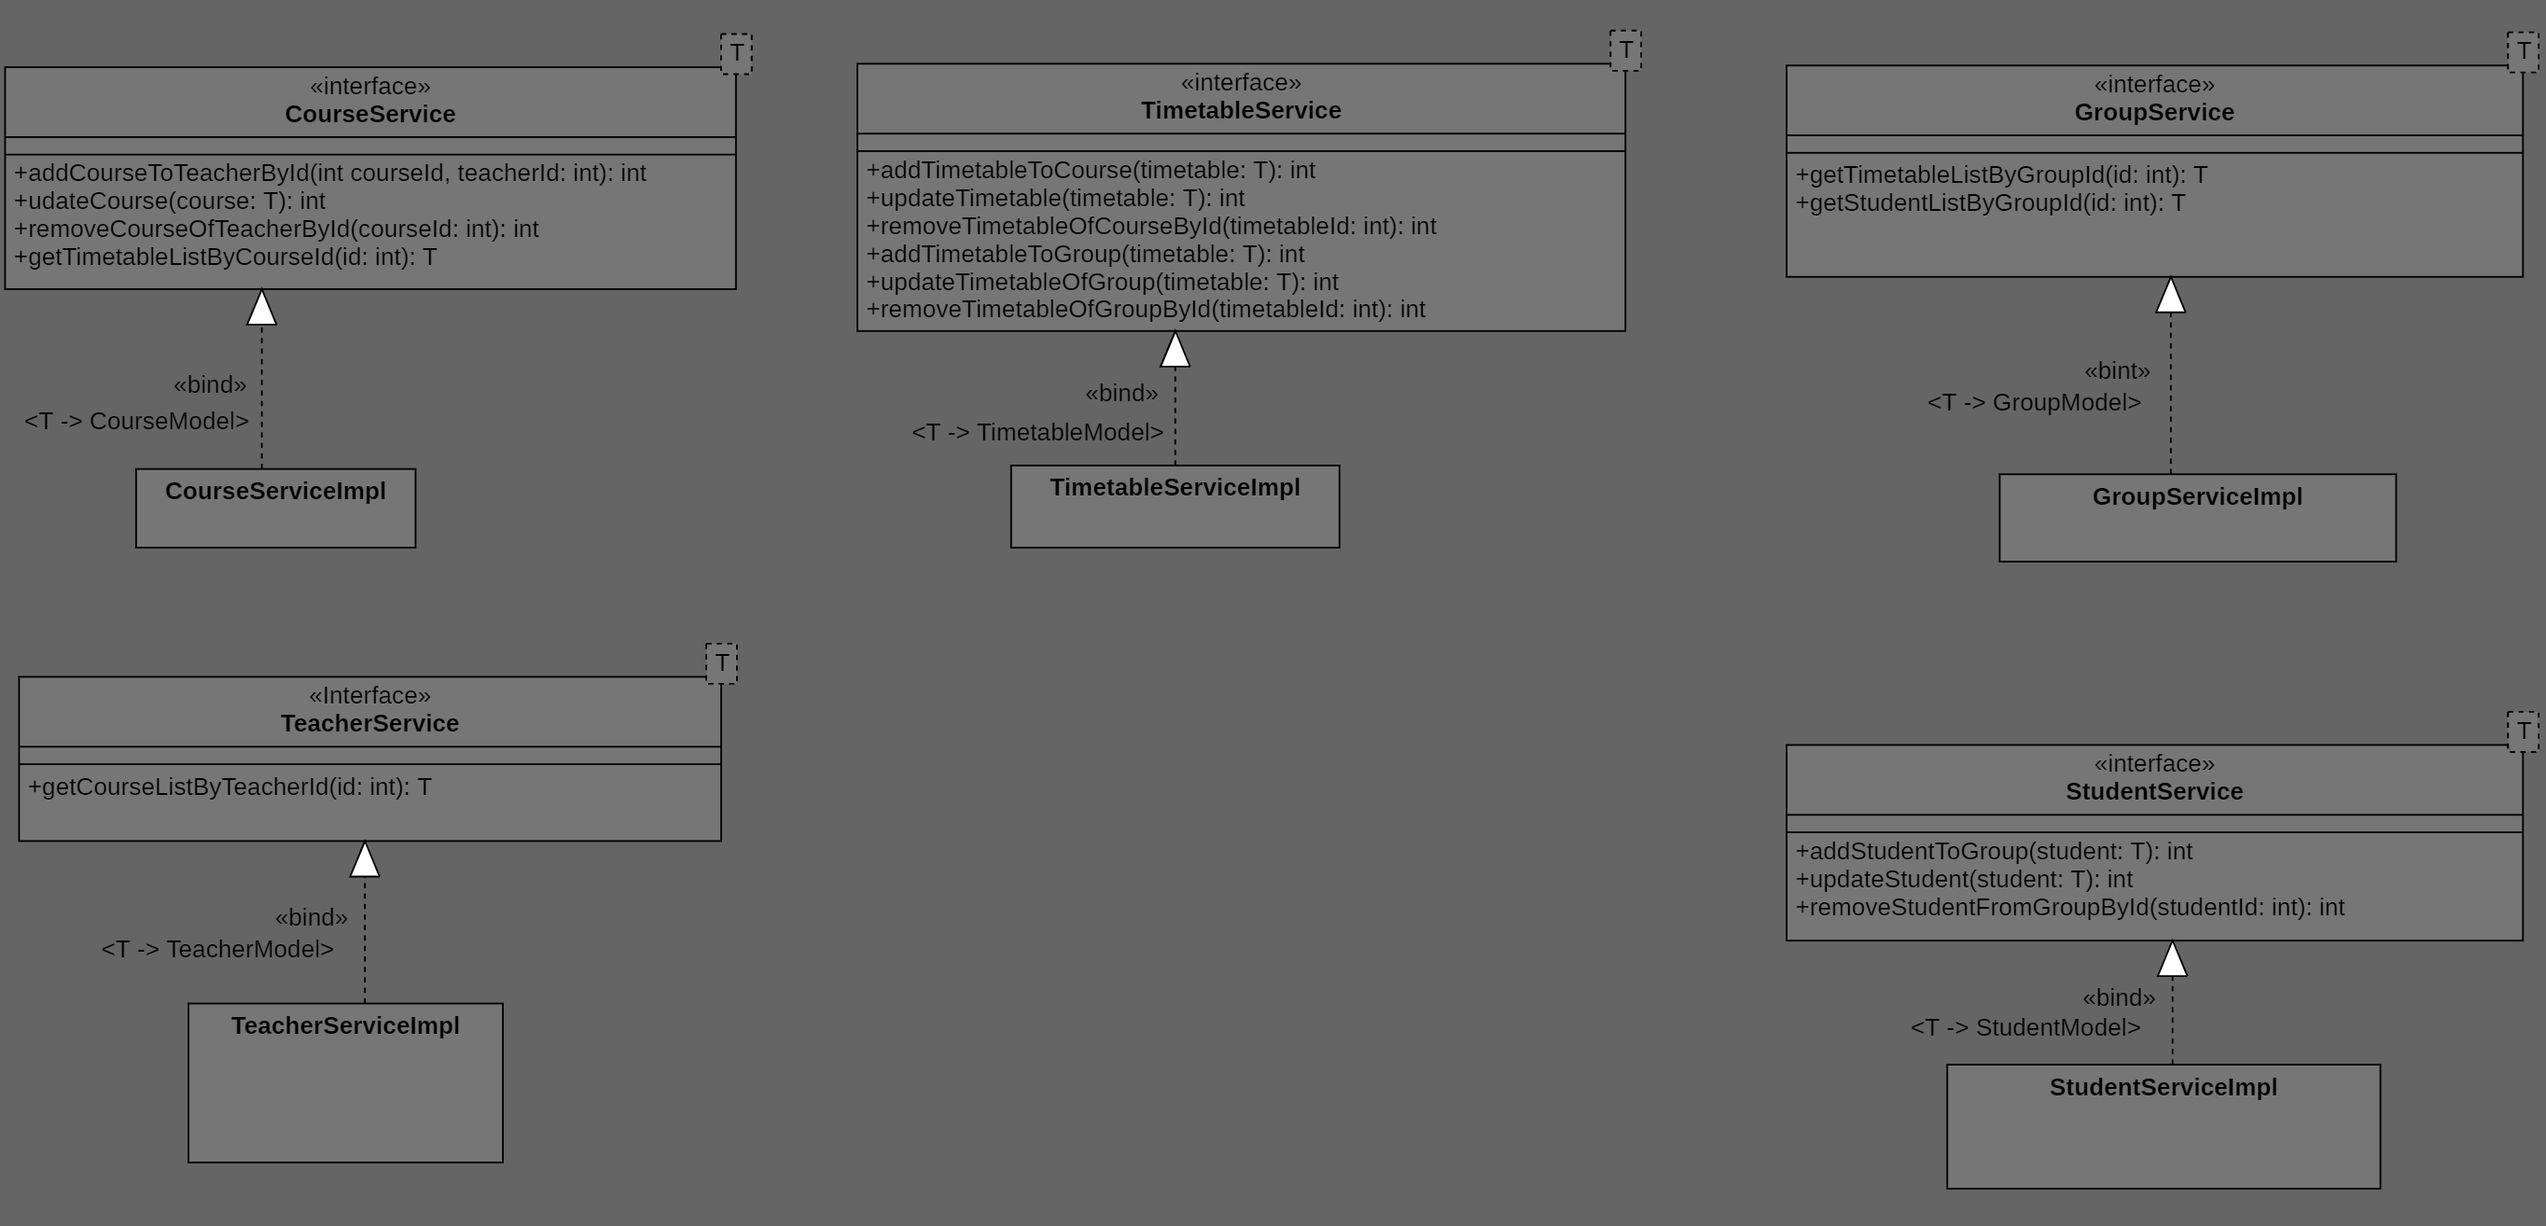
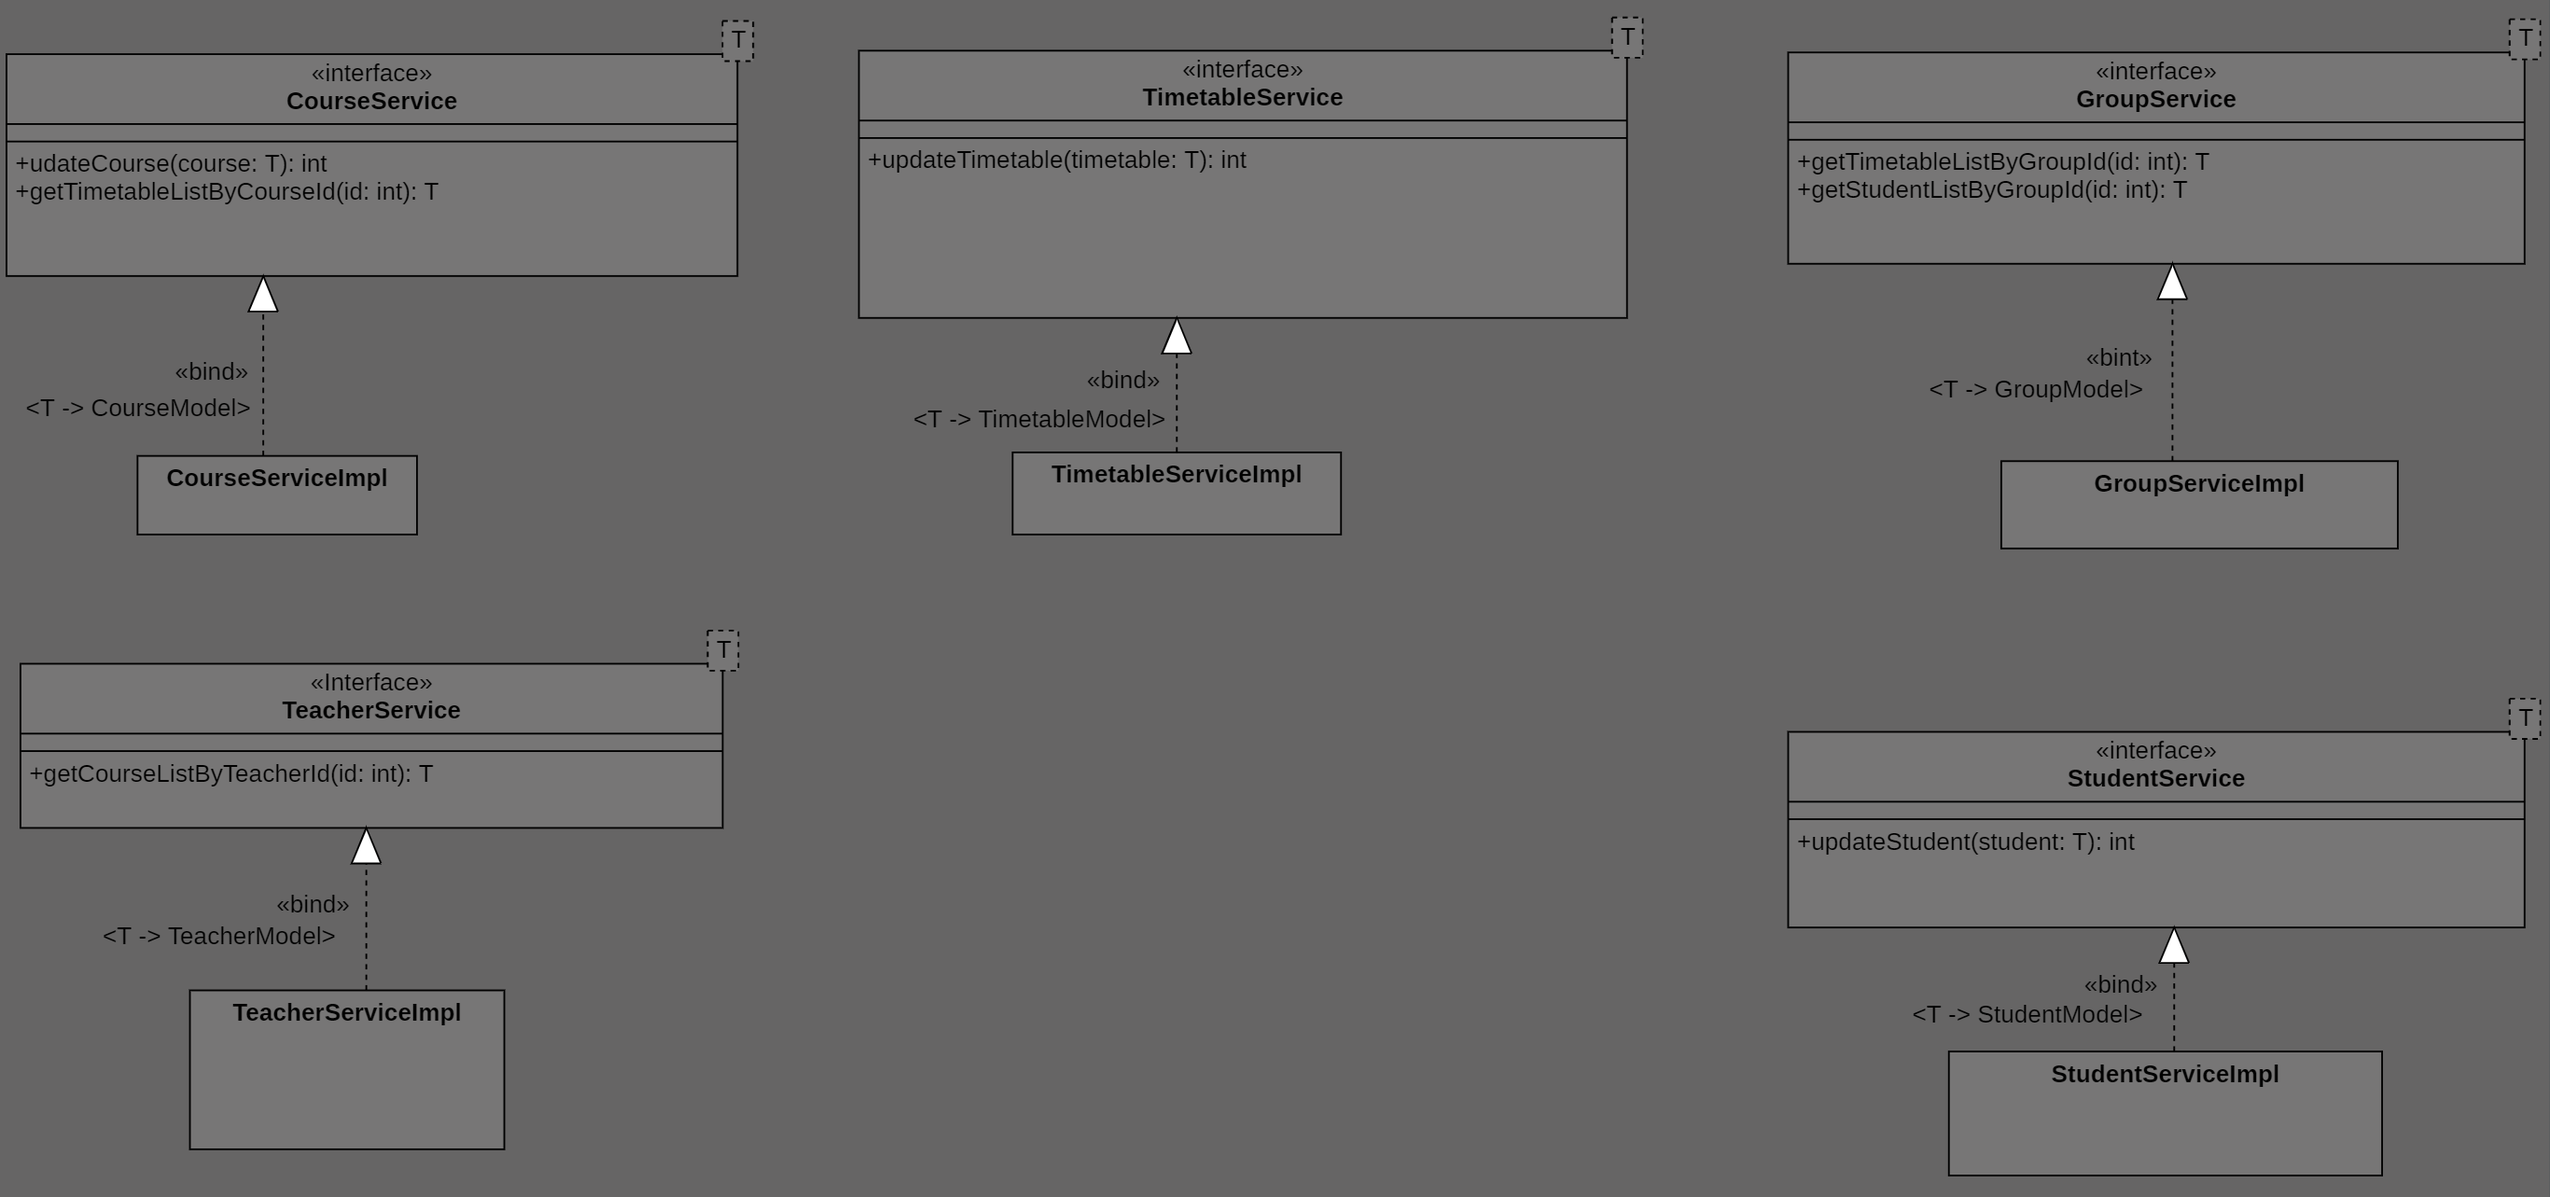
- The CourseServiceImpl class has been developed. - The CourseServiceImplTest class has been developed. - The TeacherServiceImpl class has been develped.

diff --git a/src/main/java/ua/com/foxminded/university/service/impl/CourseServiceImpl.java b/src/main/java/ua/com/foxminded/university/service/impl/CourseServiceImpl.java
@@ -1,23 +1,25 @@
 package ua.com.foxminded.university.service.impl;
 
+import java.util.List;
+import java.util.stream.Collectors;
+
 import org.springframework.beans.factory.annotation.Autowired;
 import org.springframework.stereotype.Service;
 
 import ua.com.foxminded.university.dao.CourseDao;
-import ua.com.foxminded.university.dao.TeacherDao;
 import ua.com.foxminded.university.entity.CourseEntity;
 import ua.com.foxminded.university.entity.TeacherEntity;
 import ua.com.foxminded.university.model.CourseModel;
+import ua.com.foxminded.university.model.GroupModel;
 import ua.com.foxminded.university.model.TeacherModel;
+import ua.com.foxminded.university.model.TimetableModel;
+import ua.com.foxminded.university.model.WeekDayModel;
 import ua.com.foxminded.university.service.CourseService;
 
 @Service
 public class CourseServiceImpl implements CourseService<CourseModel> {
     
-    private static final int BAD_STATUS = 0;
-    
     private CourseDao courseDao;
-    private TeacherDao teacherDao;
     
     @Autowired
     public CourseServiceImpl(CourseDao courseDao) {
@@ -25,58 +27,39 @@ public class CourseServiceImpl implements CourseService<CourseModel> {
     }
     
     @Override
-    public int addCourseToTeacherById(int courseId, int teacherId) {
-        TeacherEntity teacher = teacherDao.getById(teacherId);
-        CourseEntity course = courseDao.getById(teacherId);
-        
-        if (teacher == null || course == null) {
-            return BAD_STATUS;
-        } else {
-            if (course.getTeacher().getId() == courseId) {
-                return BAD_STATUS;
-            } else {
-                course.setTeacher(teacher);
-                return courseDao.update(course);
-            }
-        }
-    }
-    
-    @Override
     public int updateCourse(CourseModel courseModel) {
-        CourseEntity courseEntity = courseDao.getById(courseModel.getId());
-        
-        if (courseEntity == null) {
-            return BAD_STATUS;
-        } else {
-            courseEntity.setDescription(courseModel.getDescription());
-            courseEntity.setId(courseModel.getId());
-            courseEntity.setName(courseModel.getName());
-            courseEntity.setTeacher(new TeacherEntity(courseModel.getId()));
-            return courseDao.update(courseEntity);
-        }
+        CourseEntity courseEntity = new CourseEntity();
+        courseEntity.setDescription(courseModel.getDescription());
+        courseEntity.setId(courseModel.getId());
+        courseEntity.setName(courseModel.getName());
+        courseEntity.setTeacher(new TeacherEntity(courseModel.getTeacher().getId()));
+        return courseDao.update(courseEntity);
     }
    
     @Override
-    public int removeCourseOfTeacherById(int courseId, int teacherId) {
-        CourseEntity courseEntity = courseDao.getById(courseId);
-        
-        if (courseEntity == null) {
-            return BAD_STATUS;
-        } else {
-            courseEntity.setTeacher(new TeacherEntity());
-            return courseDao.update(courseEntity);
-        }
-    }
-    
-    
-    @Override
     public CourseModel getTimetableListByCourseId(int id) {
-        CourseEntity courseEntity = courseDao.getTimetableListByCourseId(id);
-        CourseModel courseModel = new CourseModel();
-        courseModel.setDescription(courseEntity.getDescription());
-        courseModel.setId(courseEntity.getId());
-        courseModel.setName(courseEntity.getName());
-        courseModel.setTeacher(new TeacherModel(courseEntity.getTeacher().getId()));
-        return courseModel;
+        CourseEntity courseEntityTimetableList = courseDao.getTimetableListByCourseId(id);
+        CourseModel courseModelTimetableList = new CourseModel();
+        
+        List<TimetableModel> timetableList = courseEntityTimetableList.getTimetableList().stream()
+                .map(entity -> {
+                    TimetableModel model = new TimetableModel();
+                    model.setCourse(new CourseModel(entity.getCourse().getId()));
+                    model.setDescription(entity.getDescription());
+                    model.setEndTime(entity.getEndTime());
+                    model.setGroup(new GroupModel(entity.getGroup().getId()));
+                    model.setId(entity.getId());
+                    model.setStartTime(entity.getStartTime());
+                    model.setWeekDay(WeekDayModel.valueOf(entity.getWeekDay().toString()));
+                    return model;
+                }).collect(Collectors.toList());
+        
+        courseModelTimetableList.setTimetableList(timetableList);
+        courseModelTimetableList.setDescription(courseEntityTimetableList.getDescription());
+        courseModelTimetableList.setId(courseEntityTimetableList.getId());
+        courseModelTimetableList.setName(courseEntityTimetableList.getName());
+        courseModelTimetableList.setTeacher(new TeacherModel(courseEntityTimetableList.getTeacher()
+                                                                                      .getId()));
+        return courseModelTimetableList;
     }
 }

diff --git a/src/test/java/ua/com/foxminded/university/service/impl/CourseServiceImplTest.java b/src/test/java/ua/com/foxminded/university/service/impl/CourseServiceImplTest.java
@@ -1,0 +1,92 @@
+package ua.com.foxminded.university.service.impl;
+
+import static org.junit.jupiter.api.Assertions.*;
+import static org.mockito.Mockito.times;
+import static org.mockito.Mockito.verify;
+import static org.mockito.Mockito.when;
+
+import java.util.ArrayList;
+import java.util.List;
+
+import org.junit.jupiter.api.Test;
+import org.junit.jupiter.api.extension.ExtendWith;
+import org.mockito.ArgumentMatchers;
+import org.mockito.InjectMocks;
+import org.mockito.Mock;
+import org.mockito.junit.jupiter.MockitoExtension;
+
+import ua.com.foxminded.university.dao.CourseDao;
+import ua.com.foxminded.university.entity.CourseEntity;
+import ua.com.foxminded.university.entity.GroupEntity;
+import ua.com.foxminded.university.entity.TeacherEntity;
+import ua.com.foxminded.university.entity.TimetableEntity;
+import ua.com.foxminded.university.entity.WeekDayEntity;
+import ua.com.foxminded.university.model.CourseModel;
+import ua.com.foxminded.university.model.TeacherModel;
+import ua.com.foxminded.university.model.WeekDayModel;
+
+
+@ExtendWith(MockitoExtension.class)
+class CourseServiceImplTest {
+    
+    private static final long START_TIME = 645689;
+    private static final long END_TIME = 46548;
+    private static final int FIRST_ELEMENT = 0;
+    private static final int TIMETABLE_ID = 2;
+    private static final int GROUP_ID = 2;
+    private static final int TEACHER_ID = 1;
+    private static final int COURSE_ID = 1;
+    private static final String COURSE_NAME = "Thermodynamics";
+    private static final String DESCRIPTION = "some description";
+    
+    @InjectMocks
+    private CourseServiceImpl courseService;
+    
+    @Mock
+    private CourseDao courseDaoMock;
+    
+    @Test
+    void updateCourse_CollingDaoObject_CorrectCallQuantity() {
+        CourseModel courseModel = new CourseModel();
+        courseModel.setTeacher(new TeacherModel());
+        courseService.updateCourse(courseModel);
+        verify(courseDaoMock, times(1)).update(ArgumentMatchers.<CourseEntity>any());
+    }
+    
+    @Test
+    void getTimetableListByCourseId_GettingTimetableModel_CorrectData () {
+        CourseEntity courseEntity = new CourseEntity();
+        List<TimetableEntity> courseList = new ArrayList<>();
+        TimetableEntity timetableEntity = new TimetableEntity();
+        timetableEntity.setCourse(new CourseEntity(COURSE_ID));
+        timetableEntity.setDescription(DESCRIPTION);
+        timetableEntity.setEndTime(END_TIME);
+        timetableEntity.setGroup(new GroupEntity(GROUP_ID));
+        timetableEntity.setId(TIMETABLE_ID);
+        timetableEntity.setStartTime(START_TIME);
+        timetableEntity.setWeekDay(WeekDayEntity.WEDNESDAY);
+        
+        courseList.add(timetableEntity);
+        
+        courseEntity.setTimetableList(courseList);
+        courseEntity.setDescription(DESCRIPTION);
+        courseEntity.setId(COURSE_ID);
+        courseEntity.setName(COURSE_NAME);
+        courseEntity.setTeacher(new TeacherEntity(TEACHER_ID));
+        
+        when(courseDaoMock.getTimetableListByCourseId(ArgumentMatchers.anyInt())).thenReturn(courseEntity);
+        CourseModel courseModel = courseService.getTimetableListByCourseId(COURSE_ID);
+        assertEquals(DESCRIPTION, courseModel.getDescription());
+        assertEquals(COURSE_ID, courseModel.getId());
+        assertEquals(COURSE_NAME, courseModel.getName());
+        assertEquals(TEACHER_ID, courseModel.getTeacher().getId());
+   
+        assertEquals(COURSE_ID, courseModel.getTimetableList().get(FIRST_ELEMENT).getCourse().getId());
+        assertEquals(DESCRIPTION, courseModel.getTimetableList().get(FIRST_ELEMENT).getDescription());
+        assertEquals(END_TIME, courseModel.getTimetableList().get(FIRST_ELEMENT).getEndTime());
+        assertEquals(GROUP_ID, courseModel.getTimetableList().get(FIRST_ELEMENT).getGroup().getId());
+        assertEquals(TIMETABLE_ID, courseModel.getTimetableList().get(FIRST_ELEMENT).getId());
+        assertEquals(START_TIME, courseModel.getTimetableList().get(FIRST_ELEMENT).getStartTime());
+        assertEquals(WeekDayModel.WEDNESDAY, courseModel.getTimetableList().get(FIRST_ELEMENT).getWeekDay());
+    }
+}

diff --git a/src/main/java/ua/com/foxminded/university/service/impl/TeacherServiceImpl.java b/src/main/java/ua/com/foxminded/university/service/impl/TeacherServiceImpl.java
@@ -1,0 +1,46 @@
+package ua.com.foxminded.university.service.impl;
+
+import java.util.List;
+import java.util.stream.Collectors;
+
+import org.springframework.beans.factory.annotation.Autowired;
+import org.springframework.stereotype.Service;
+
+import ua.com.foxminded.university.dao.TeacherDao;
+import ua.com.foxminded.university.entity.TeacherEntity;
+import ua.com.foxminded.university.model.CourseModel;
+import ua.com.foxminded.university.model.TeacherModel;
+import ua.com.foxminded.university.service.TeacherService;
+
+@Service
+public class TeacherServiceImpl implements TeacherService<TeacherModel> {
+    
+    private TeacherDao teacherDao; 
+    
+    @Autowired
+    public TeacherServiceImpl(TeacherDao teacherDao) {
+        this.teacherDao = teacherDao;
+    }
+    
+    public TeacherModel getCourseListByTeacherId(int id) {
+        TeacherEntity teacherEntityCourseList = teacherDao.getCourseListByTeacherId(id);
+        TeacherModel teacherModelCourseList = new TeacherModel();
+        
+        List<CourseModel> courseEntityList = teacherEntityCourseList.getCourseList().stream()
+                .map(entity -> {
+                    CourseModel model = new CourseModel();
+                    model.setDescription(entity.getDescription());
+                    model.setId(entity.getId());
+                    model.setName(entity.getName());
+                    model.setTeacher(new TeacherModel(entity.getTeacher().getId()));
+                    return model;
+                })
+                .collect(Collectors.toList());
+        
+        teacherModelCourseList.setCourseList(courseEntityList);
+        teacherModelCourseList.setFirstName(teacherEntityCourseList.getFirstName());
+        teacherModelCourseList.setId(teacherEntityCourseList.getId());
+        teacherModelCourseList.setLastName(teacherEntityCourseList.getLastName());
+        return teacherModelCourseList;
+    }
+}

diff --git a/src/main/java/ua/com/foxminded/university/model/TimetableModel.java b/src/main/java/ua/com/foxminded/university/model/TimetableModel.java
@@ -12,14 +12,21 @@ public class TimetableModel {
     private String description;
     private WeekDayModel weekDay;
     
-    public int getId() {
-        return id;
+    public TimetableModel() {
     }
 
     public TimetableModel(Integer id) {
         this.id = id;
     }
-    
+
+    public Integer getId() {
+        return id;
+    }
+
+    public void setId(Integer id) {
+        this.id = id;
+    }
+
     public GroupModel getGroup() {
         return group;
     }
@@ -68,10 +75,6 @@ public class TimetableModel {
         this.weekDay = weekDay;
     }
 
-    public void setId(Integer id) {
-        this.id = id;
-    }
-
     @Override
     public int hashCode() {
         return Objects.hash(course, description, endTime, group, id, startTime, weekDay);
@@ -87,13 +90,13 @@ public class TimetableModel {
             return false;
         TimetableModel other = (TimetableModel) obj;
         return Objects.equals(course, other.course) && Objects.equals(description, other.description)
-                && endTime == other.endTime && Objects.equals(group, other.group) && id == other.id
+                && endTime == other.endTime && Objects.equals(group, other.group) && Objects.equals(id, other.id)
                 && startTime == other.startTime && weekDay == other.weekDay;
     }
 
     @Override
     public String toString() {
-        return "TimetableEntity [id=" + id + ", group=" + group + ", course=" + course + ", startTime=" + startTime
+        return "TimetableModel [id=" + id + ", group=" + group + ", course=" + course + ", startTime=" + startTime
                 + ", endTime=" + endTime + ", description=" + description + ", weekDay=" + weekDay + "]";
     }
 }

diff --git a/src/main/java/ua/com/foxminded/university/Boot.java b/src/main/java/ua/com/foxminded/university/Boot.java
@@ -20,6 +20,7 @@ import ua.com.foxminded.university.entity.StudentEntity;
 import ua.com.foxminded.university.entity.TeacherEntity;
 import ua.com.foxminded.university.entity.TimetableEntity;
 import ua.com.foxminded.university.model.CourseModel;
+import ua.com.foxminded.university.model.TeacherModel;
 import ua.com.foxminded.university.service.CourseService;
 import ua.com.foxminded.university.service.impl.CourseServiceImpl;
 
@@ -60,8 +61,14 @@ public class Boot {
         TimetableEntity timetable = timetableDao.getById(1);
         System.out.println(timetable.toString());
         
+        CourseModel courseModel = new CourseModel();
+        courseModel.setDescription("something");
+        courseModel.setId(3);
+        courseModel.setName("Philosophy");
+        courseModel.setTeacher(new TeacherModel(1));
+        
         CourseService<CourseModel> courseService = context.getBean("courseServiceImpl", CourseServiceImpl.class);
-        int status = courseService.removeCourseOfTeacherById(2, 2);
+        int status = courseService.updateCourse(courseModel);
         System.out.println(status);
         
         

diff --git a/src/main/java/ua/com/foxminded/university/service/CourseService.java b/src/main/java/ua/com/foxminded/university/service/CourseService.java
@@ -2,8 +2,6 @@ package ua.com.foxminded.university.service;
 
 public interface CourseService<T> {
     
-    public int addCourseToTeacherById(int courseId, int teacherId);
     public int updateCourse(T course);
-    public int removeCourseOfTeacherById(int courseId);
     public T getTimetableListByCourseId(int id);
 }

diff --git a/src/main/java/ua/com/foxminded/university/service/TeacherService.java b/src/main/java/ua/com/foxminded/university/service/TeacherService.java
@@ -1,0 +1,6 @@
+package ua.com.foxminded.university.service;
+
+public interface TeacherService<T> {
+    
+    public T getCourseListByTeacherId(int id);
+}
